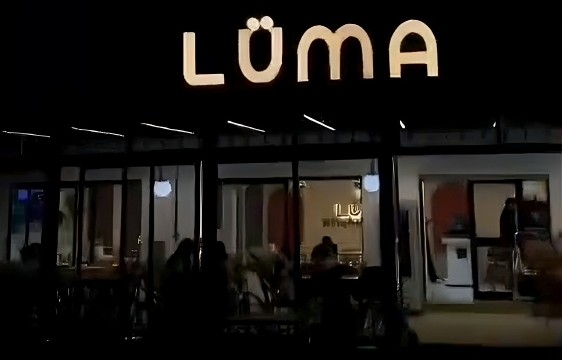
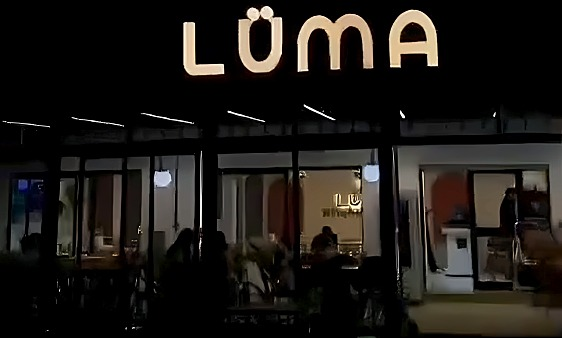
Le lieu: give the night facade a professional fit (dark closing band, framed, captioned) + graded photo; v=27

diff --git a/assets/css/site.css b/assets/css/site.css
@@ -17,7 +17,7 @@
 /* Gallery */
 .gallery-section{background:var(--paper)}.gallery-grid{display:grid;grid-template-columns:1.15fr .85fr .85fr;grid-template-rows:210px 210px;gap:12px}.gallery-grid.full{grid-template-columns:repeat(3,1fr);grid-template-rows:none;grid-auto-rows:230px}.gallery-grid.full .gallery-item:first-child{grid-row:auto;grid-column:span 2}.gallery-item{position:relative;overflow:hidden;background:#d4ccbf;cursor:pointer;border:0;padding:0;text-align:left}.gallery-item picture{display:block;width:100%}.hero-media picture{position:absolute;inset:0;display:block}.gallery-item:first-child{grid-row:span 2}.gallery-grid.full .gallery-item:first-child{grid-row:auto}.gallery-item img{width:100%;height:100%;object-fit:cover;transition:transform .65s,filter .65s}.gallery-item:hover img{transform:scale(1.045);filter:saturate(1.08)}.gallery-item:after{content:'\2197';position:absolute;right:14px;bottom:14px;width:35px;height:35px;display:grid;place-items:center;background:rgba(23,25,22,.78);border:1px solid var(--line);color:var(--gold2);border-radius:50%;opacity:0;transform:translateY(6px);transition:all .25s}.gallery-item:hover:after,.gallery-item:focus-visible:after{opacity:1;transform:none}.gallery-item figcaption{position:absolute;left:14px;bottom:14px;color:#fff;font:.85rem var(--serif);text-shadow:0 1px 8px rgba(0,0,0,.6)}.gallery-foot{display:flex;justify-content:space-between;align-items:center;gap:24px;margin-top:26px;color:#6d6a62;font-size:.75rem}
 /* About */
-.about-facts{display:grid;grid-template-columns:repeat(3,1fr);gap:12px;margin:34px 0}.fact{background:#fffdf8;border:1px solid #e2d9ca;padding:22px}.fact strong{display:block;font:1.5rem var(--serif);font-weight:400;color:#6e302d}.fact span{font-size:.72rem;letter-spacing:.1em;text-transform:uppercase;color:#827b6e}.about-split{display:grid;grid-template-columns:1fr 1fr;gap:clamp(28px,5vw,70px);align-items:center}.about-split img{width:100%;height:100%;object-fit:cover;min-height:380px}.brand-band{background:var(--night);color:var(--cream)}.brand-band .sub{color:#bdbbb2}
+.about-facts{display:grid;grid-template-columns:repeat(3,1fr);gap:12px;margin:34px 0}.fact{background:#fffdf8;border:1px solid #e2d9ca;padding:22px}.fact strong{display:block;font:1.5rem var(--serif);font-weight:400;color:#6e302d}.fact span{font-size:.72rem;letter-spacing:.1em;text-transform:uppercase;color:#827b6e}.about-split{display:grid;grid-template-columns:1fr 1fr;gap:clamp(28px,5vw,70px);align-items:center}.about-split img{width:100%;height:100%;object-fit:cover;min-height:380px}.brand-band{background:var(--night);color:var(--cream)}.brand-band .sub{color:#bdbbb2}.night-frame img{border:1px solid var(--line);filter:saturate(.96)}.night-frame .detail-line{margin-top:16px}
 /* Contact */
 .contact{background:var(--cream)}.contact-grid{display:grid;grid-template-columns:.9fr 1.1fr;gap:clamp(35px,7vw,100px);align-items:stretch}.contact-copy{padding:12px 0}.contact-copy .display{max-width:460px}.contact-list{margin:32px 0;display:grid;gap:23px}.contact-row{display:grid;grid-template-columns:38px 1fr;gap:14px;align-items:start}.contact-icon{width:36px;height:36px;display:grid;place-items:center;border:1px solid #c8b99d;color:#8f6d36;border-radius:50%;font-size:.9rem}.contact-row small{display:block;text-transform:uppercase;letter-spacing:.14em;color:#827b6e;font-size:.62rem;margin-bottom:4px}.contact-row p,.contact-row a{margin:0;font-size:.92rem;text-decoration:none}.contact-row a:hover{text-decoration:underline;text-decoration-color:var(--gold)}.contact-actions{display:flex;flex-wrap:wrap;gap:9px}.contact-actions .btn{color:var(--ink)}.contact-actions .primary{color:var(--night)}.contact-visual{position:relative;min-height:430px;overflow:hidden;background:var(--night)}.contact-visual img{width:100%;height:100%;min-height:430px;object-fit:cover;filter:saturate(.7)}.contact-card{position:absolute;left:22px;bottom:22px;right:22px;display:flex;justify-content:space-between;align-items:center;gap:18px;background:rgba(23,25,22,.93);color:var(--cream);padding:20px 22px;border:1px solid var(--line);backdrop-filter:blur(8px)}.contact-card strong{font:1.4rem var(--serif);font-weight:400;display:block}.contact-card span{font-size:.7rem;color:#c8c2b5}
 /* Footer and lightbox */

diff --git a/about.html b/about.html
@@ -8,7 +8,7 @@
 <meta name="robots" content="noindex,nofollow">
 <meta name="theme-color" content="#171916">
 <link rel="icon" href="assets/photos/luma-logo.jpg">
-<link rel="stylesheet" href="assets/css/site.css?v=26">
+<link rel="stylesheet" href="assets/css/site.css?v=27">
 </head>
 <body class="no-js page-about">
 <a class="skip-link" href="#contenu">Aller au contenu</a>
@@ -60,22 +60,6 @@
     </div>
   </div>
 </section>
-<section class="section" aria-label="LÜMA le soir">
-  <div class="wrap">
-    <div class="about-split">
-      <div class="reveal">
-        <p class="eyebrow">Le soir</p>
-        <h3 class="display" style="font-size:clamp(1.8rem,3.4vw,2.8rem)">L’enseigne s’allume, l’adresse reste la même.</h3>
-        <p class="sub">À la tombée de la nuit, la façade de LÜMA s’illumine avenue Mongi Slim. Un repère simple pour un dîner, une douceur ou un dernier verre au Kef.</p>
-        <div class="menu-open-row">
-          <a class="btn dark" href="gallery.html">Voir la galerie <span class="arrow" aria-hidden="true">↗</span></a>
-          <a class="btn light" href="contact.html">Nous trouver <span class="arrow" aria-hidden="true">→</span></a>
-        </div>
-      </div>
-      <div class="reveal"><img src="assets/photos/luma-nuit.jpg" alt="La façade de LÜMA illuminée le soir, avenue Mongi Slim à Le Kef" width="562" height="360" loading="lazy"></div>
-    </div>
-  </div>
-</section>
 <section class="experience brand-band" aria-label="Ambiance">
   <div class="experience-grid">
     <div class="experience-photo"><img src="assets/photos/interior-panorama.jpg" alt="Vue panoramique de la salle du restaurant LÜMA" width="1296" height="540" loading="lazy"></div>
@@ -88,10 +72,29 @@
     </div>
   </div>
 </section>
+<section class="section brand-band" aria-label="LÜMA le soir">
+  <div class="wrap">
+    <div class="about-split night-frame">
+      <div class="reveal">
+        <p class="eyebrow">Le soir</p>
+        <h2 class="display">Le soir,<br>l’enseigne s’allume.</h2>
+        <p class="sub">À la nuit tombée, la façade de LÜMA s’illumine avenue Mongi Slim : un repère simple pour un dîner, une douceur ou un dernier verre au Kef.</p>
+        <div class="menu-open-row">
+          <a class="btn" href="contact.html">Nous trouver <span class="arrow" aria-hidden="true">↗</span></a>
+          <a class="btn" href="gallery.html">Voir la galerie <span class="arrow" aria-hidden="true">→</span></a>
+        </div>
+      </div>
+      <div class="reveal">
+        <img src="assets/photos/luma-nuit.jpg?v=27" alt="La façade de LÜMA et son enseigne illuminée, avenue Mongi Slim à Le Kef" width="562" height="338" loading="lazy">
+        <p class="detail-line">Avenue Mongi Slim · Le Kef — le soir</p>
+      </div>
+    </div>
+  </div>
+</section>
 </main>
 <footer class="footer"><div class="wrap footer-row"><div><div class="footer-brand">LÜMA</div><small>Italian Kitchen &amp; More · Le Kef, Tunisie</small></div><nav class="footer-links" aria-label="Navigation de pied de page"><a href="index.html">Accueil</a><a href="menu.html">La carte</a><a href="gallery.html">Galerie</a><a href="about.html">Le lieu</a><a href="contact.html">Contact</a></nav><small>Concept de démonstration · Non publié</small></div></footer>
 <div class="lightbox" id="lightbox" role="dialog" aria-modal="true" aria-label="Visionneuse d’images"><button class="lb-btn lb-close" id="lbClose" aria-label="Fermer">×</button><button class="lb-btn lb-prev" id="lbPrev" aria-label="Image précédente">‹</button><img id="lbImage" alt=""><button class="lb-btn lb-next" id="lbNext" aria-label="Image suivante">›</button><p class="lb-caption" id="lbCaption"></p></div>
-<script src="assets/js/menu-data.js?v=26"></script>
-<script src="assets/js/site.js?v=26"></script>
+<script src="assets/js/menu-data.js?v=27"></script>
+<script src="assets/js/site.js?v=27"></script>
 </body>
 </html>

diff --git a/index.html b/index.html
@@ -8,7 +8,7 @@
 <meta name="robots" content="noindex,nofollow">
 <meta name="theme-color" content="#171916">
 <link rel="icon" href="assets/photos/luma-logo.jpg">
-<link rel="stylesheet" href="assets/css/site.css?v=26">
+<link rel="stylesheet" href="assets/css/site.css?v=27">
 </head>
 <body class="no-js page-home">
 <a class="skip-link" href="#contenu">Aller au contenu</a>
@@ -31,7 +31,7 @@
 </header>
 <main id="contenu">
 <section class="hero" aria-label="Présentation de LÜMA">
-  <div class="hero-media"><img src="assets/photos/interior-panorama.jpg" alt="" aria-hidden="true" fetchpriority="high"><video autoplay muted loop playsinline disablepictureinpicture preload="auto" poster="assets/videos/hero-coffee-poster.jpg" aria-label="Vidéo d’ambiance du café LÜMA"><source src="assets/videos/hero-coffee.mp4?v=26" type="video/mp4"></video></div>
+  <div class="hero-media"><img src="assets/photos/interior-panorama.jpg" alt="" aria-hidden="true" fetchpriority="high"><video autoplay muted loop playsinline disablepictureinpicture preload="auto" poster="assets/videos/hero-coffee-poster.jpg" aria-label="Vidéo d’ambiance du café LÜMA"><source src="assets/videos/hero-coffee.mp4?v=27" type="video/mp4"></video></div>
   <div class="wrap hero-inner">
     <div class="hero-copy">
       <p class="eyebrow hero-kicker">Avenue Mongi Slim · Le Kef</p>
@@ -105,7 +105,7 @@
 </main>
 <footer class="footer"><div class="wrap footer-row"><div><div class="footer-brand">LÜMA</div><small>Italian Kitchen &amp; More · Le Kef, Tunisie</small></div><nav class="footer-links" aria-label="Navigation de pied de page"><a href="index.html">Accueil</a><a href="menu.html">La carte</a><a href="gallery.html">Galerie</a><a href="about.html">Le lieu</a><a href="contact.html">Contact</a></nav><small>Concept de démonstration · Non publié</small></div></footer>
 <div class="lightbox" id="lightbox" role="dialog" aria-modal="true" aria-label="Visionneuse d’images"><button class="lb-btn lb-close" id="lbClose" aria-label="Fermer">×</button><button class="lb-btn lb-prev" id="lbPrev" aria-label="Image précédente">‹</button><img id="lbImage" alt=""><button class="lb-btn lb-next" id="lbNext" aria-label="Image suivante">›</button><p class="lb-caption" id="lbCaption"></p></div>
-<script src="assets/js/menu-data.js?v=26"></script>
-<script src="assets/js/site.js?v=26"></script>
+<script src="assets/js/menu-data.js?v=27"></script>
+<script src="assets/js/site.js?v=27"></script>
 </body>
 </html>

diff --git a/gallery.html b/gallery.html
@@ -8,7 +8,7 @@
 <meta name="robots" content="noindex,nofollow">
 <meta name="theme-color" content="#171916">
 <link rel="icon" href="assets/photos/luma-logo.jpg">
-<link rel="stylesheet" href="assets/css/site.css?v=26">
+<link rel="stylesheet" href="assets/css/site.css?v=27">
 </head>
 <body class="no-js page-gallery">
 <a class="skip-link" href="#contenu">Aller au contenu</a>
@@ -31,7 +31,7 @@
 </header>
 <main id="contenu">
 <section class="page-hero" aria-labelledby="titre-galerie">
-  <div class="hero-media"><picture><source media="(min-width:721px)" srcset="assets/photos/dessert-table-pc.jpg?v=26"><img src="assets/photos/dessert-table.jpg" alt="" width="2048" height="1536" fetchpriority="high"></picture></div>
+  <div class="hero-media"><picture><source media="(min-width:721px)" srcset="assets/photos/dessert-table-pc.jpg?v=27"><img src="assets/photos/dessert-table.jpg" alt="" width="2048" height="1536" fetchpriority="high"></picture></div>
   <div class="wrap"><div>
     <p class="crumbs"><a href="index.html">Accueil</a> · Galerie</p>
     <h1 id="titre-galerie">LÜMA, en images</h1>
@@ -51,7 +51,7 @@
 </main>
 <footer class="footer"><div class="wrap footer-row"><div><div class="footer-brand">LÜMA</div><small>Italian Kitchen &amp; More · Le Kef, Tunisie</small></div><nav class="footer-links" aria-label="Navigation de pied de page"><a href="index.html">Accueil</a><a href="menu.html">La carte</a><a href="gallery.html">Galerie</a><a href="about.html">Le lieu</a><a href="contact.html">Contact</a></nav><small>Concept de démonstration · Non publié</small></div></footer>
 <div class="lightbox" id="lightbox" role="dialog" aria-modal="true" aria-label="Visionneuse d’images"><button class="lb-btn lb-close" id="lbClose" aria-label="Fermer">×</button><button class="lb-btn lb-prev" id="lbPrev" aria-label="Image précédente">‹</button><img id="lbImage" alt=""><button class="lb-btn lb-next" id="lbNext" aria-label="Image suivante">›</button><p class="lb-caption" id="lbCaption"></p></div>
-<script src="assets/js/menu-data.js?v=26"></script>
-<script src="assets/js/site.js?v=26"></script>
+<script src="assets/js/menu-data.js?v=27"></script>
+<script src="assets/js/site.js?v=27"></script>
 </body>
 </html>

diff --git a/contact.html b/contact.html
@@ -8,7 +8,7 @@
 <meta name="robots" content="noindex,nofollow">
 <meta name="theme-color" content="#171916">
 <link rel="icon" href="assets/photos/luma-logo.jpg">
-<link rel="stylesheet" href="assets/css/site.css?v=26">
+<link rel="stylesheet" href="assets/css/site.css?v=27">
 </head>
 <body class="no-js page-contact">
 <a class="skip-link" href="#contenu">Aller au contenu</a>
@@ -61,7 +61,7 @@
 </main>
 <footer class="footer"><div class="wrap footer-row"><div><div class="footer-brand">LÜMA</div><small>Italian Kitchen &amp; More · Le Kef, Tunisie</small></div><nav class="footer-links" aria-label="Navigation de pied de page"><a href="index.html">Accueil</a><a href="menu.html">La carte</a><a href="gallery.html">Galerie</a><a href="about.html">Le lieu</a><a href="contact.html">Contact</a></nav><small>Concept de démonstration · Non publié</small></div></footer>
 <div class="lightbox" id="lightbox" role="dialog" aria-modal="true" aria-label="Visionneuse d’images"><button class="lb-btn lb-close" id="lbClose" aria-label="Fermer">×</button><button class="lb-btn lb-prev" id="lbPrev" aria-label="Image précédente">‹</button><img id="lbImage" alt=""><button class="lb-btn lb-next" id="lbNext" aria-label="Image suivante">›</button><p class="lb-caption" id="lbCaption"></p></div>
-<script src="assets/js/menu-data.js?v=26"></script>
-<script src="assets/js/site.js?v=26"></script>
+<script src="assets/js/menu-data.js?v=27"></script>
+<script src="assets/js/site.js?v=27"></script>
 </body>
 </html>

diff --git a/menu.html b/menu.html
@@ -8,7 +8,7 @@
 <meta name="robots" content="noindex,nofollow">
 <meta name="theme-color" content="#171916">
 <link rel="icon" href="assets/photos/luma-logo.jpg">
-<link rel="stylesheet" href="assets/css/site.css?v=26">
+<link rel="stylesheet" href="assets/css/site.css?v=27">
 </head>
 <body class="no-js page-menu">
 <a class="skip-link" href="#contenu">Aller au contenu</a>
@@ -63,7 +63,7 @@
 </main>
 <footer class="footer"><div class="wrap footer-row"><div><div class="footer-brand">LÜMA</div><small>Italian Kitchen &amp; More · Le Kef, Tunisie</small></div><nav class="footer-links" aria-label="Navigation de pied de page"><a href="index.html">Accueil</a><a href="menu.html">La carte</a><a href="gallery.html">Galerie</a><a href="about.html">Le lieu</a><a href="contact.html">Contact</a></nav><small>Concept de démonstration · Non publié</small></div></footer>
 <div class="lightbox" id="lightbox" role="dialog" aria-modal="true" aria-label="Visionneuse d’images"><button class="lb-btn lb-close" id="lbClose" aria-label="Fermer">×</button><button class="lb-btn lb-prev" id="lbPrev" aria-label="Image précédente">‹</button><img id="lbImage" alt=""><button class="lb-btn lb-next" id="lbNext" aria-label="Image suivante">›</button><p class="lb-caption" id="lbCaption"></p></div>
-<script src="assets/js/menu-data.js?v=26"></script>
-<script src="assets/js/site.js?v=26"></script>
+<script src="assets/js/menu-data.js?v=27"></script>
+<script src="assets/js/site.js?v=27"></script>
 </body>
 </html>
